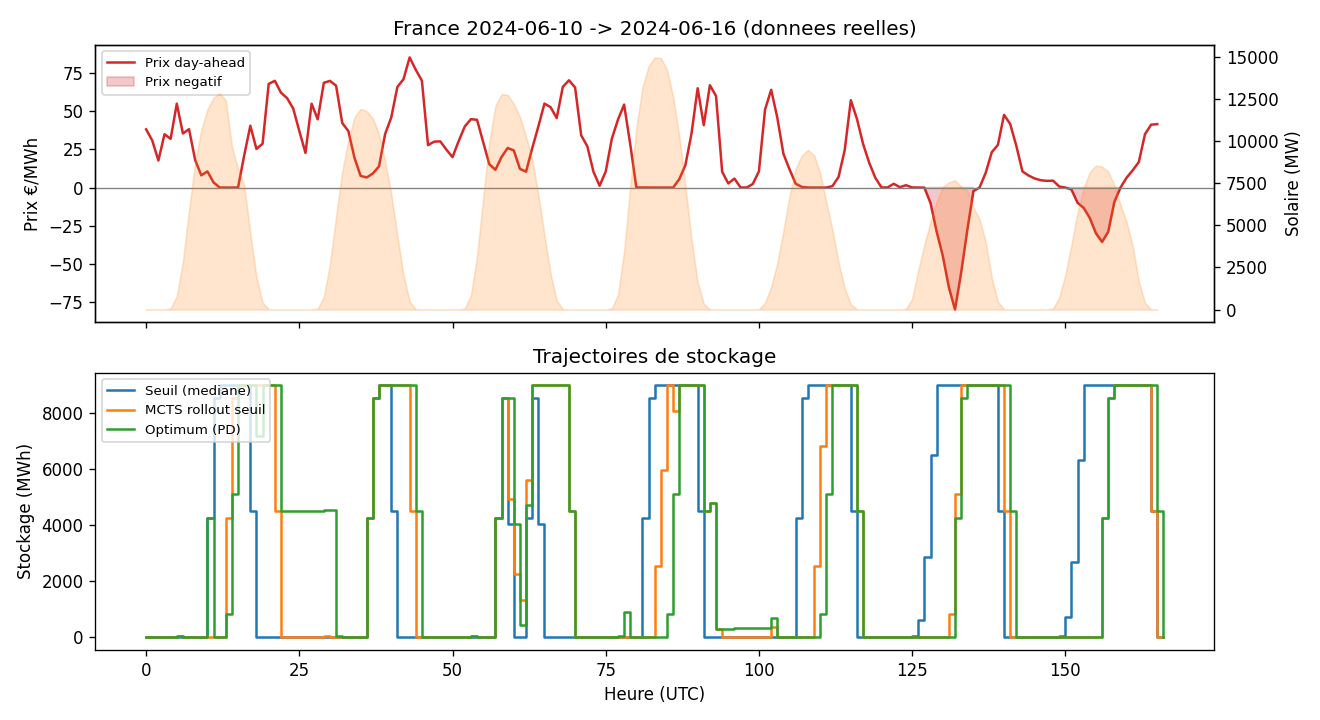
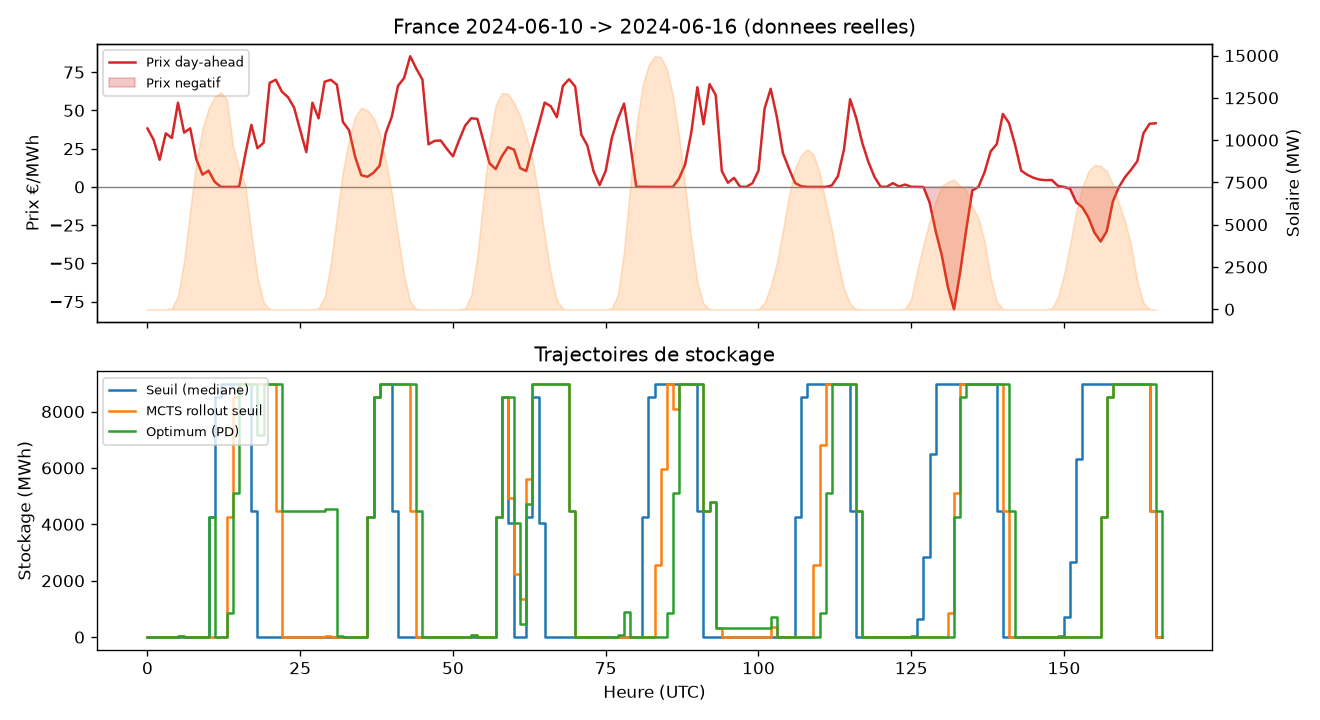
Update

diff --git a/MCTS_real/mcts.py b/MCTS_real/mcts.py
@@ -1,0 +1,132 @@
+"""Phase 5 — Monte Carlo Tree Search (UCT) pour le MDP a horizon fini.
+
+Le MCTS est utilise comme PLANIFICATEUR a horizon glissant (style MPC) : a
+chaque pas reel, on construit un arbre depuis l'etat courant (t, soc), on choisit
+l'action la plus visitee, on l'execute, on avance, et on recommence. C'est la
+maniere naturelle d'employer le MCTS comme politique et celle qui s'etendra
+directement au cas STOCHASTIQUE (il suffira d'echantillonner prix/production
+dans les rollouts au lieu de les rejouer a l'identique).
+
+Les quatre phases d'une simulation :
+  1. Selection   : on descend l'arbre via UCT tant que le noeud est entierement
+                   developpe.
+  2. Expansion   : on ajoute un enfant pour une action non encore essayee.
+  3. Simulation  : rollout (politique aleatoire par defaut) jusqu'a l'horizon.
+  4. Retropropagation : on remonte le retour-a-venir (return-to-go).
+
+Chaque noeud estime la valeur RESTANTE depuis lui-meme (somme des recompenses
+futures). La valeur d'une action a depuis un noeud = recompense d'arete r(noeud,a)
++ valeur estimee de l'enfant. UCT est normalise localement (min/max des valeurs
+d'action du noeud) pour rester robuste a l'echelle des recompenses.
+"""
+
+import math
+import numpy as np
+
+
+class _Node:
+    __slots__ = ("t", "soc", "children", "edge_r", "untried", "N", "W")
+
+    def __init__(self, t, soc, n_actions):
+        self.t = t
+        self.soc = soc
+        self.children = {}          # action_index -> _Node
+        self.edge_r = {}            # action_index -> recompense immediate
+        self.untried = list(range(n_actions))
+        self.N = 0                  # nombre de visites
+        self.W = 0.0                # somme des retours-a-venir observes
+
+
+class MCTSPlanner:
+    """Planificateur MCTS/UCT a horizon glissant."""
+
+    def __init__(self, env, n_simulations=600, c=1.0, rollout_policy=None, seed=0):
+        self.env = env
+        self.H = env.H
+        self.n_actions = env.n_actions
+        self.n_simulations = n_simulations
+        self.c = c                                  # constante d'exploration
+        self.rng = np.random.default_rng(seed)
+        self.rollout_policy = rollout_policy        # None => rollout aleatoire
+
+    # ---- choix de l'action pour l'etat courant ---- #
+    def plan_action(self, t, soc):
+        root = _Node(t, soc, self.n_actions)
+        for _ in range(self.n_simulations):
+            self._simulate(root)
+        # Action la plus visitee (choix robuste, standard en MCTS).
+        return max(root.children, key=lambda a: root.children[a].N)
+
+    # ---- une simulation complete (recursive) ---- #
+    def _simulate(self, node):
+        # Renvoie le retour-a-venir depuis `node`.
+        if node.t >= self.H:
+            return 0.0
+
+        if node.untried:  # ----- Expansion -----
+            a = node.untried.pop(self.rng.integers(len(node.untried)))
+            soc_next, r = self.env.apply(node.soc, node.t, a)
+            child = _Node(node.t + 1, soc_next, self.n_actions)
+            node.children[a] = child
+            node.edge_r[a] = r
+            g_child = self._rollout(child.t, child.soc)   # ----- Simulation -----
+            child.N += 1
+            child.W += g_child
+            g = r + g_child
+        else:             # ----- Selection (UCT) puis recursion -----
+            a = self._uct_select(node)
+            child = node.children[a]
+            g_child = self._simulate(child)
+            g = node.edge_r[a] + g_child
+
+        # ----- Retropropagation -----
+        node.N += 1
+        node.W += g
+        return g
+
+    def _uct_select(self, node):
+        log_n = math.log(node.N)
+        # Valeur d'action = recompense d'arete + valeur moyenne de l'enfant.
+        q = {a: node.edge_r[a] + ch.W / ch.N for a, ch in node.children.items()}
+        q_min = min(q.values())
+        q_max = max(q.values())
+        span = (q_max - q_min) if q_max > q_min else 1.0
+
+        best_score = -1e18
+        best_a = None
+        for a, ch in node.children.items():
+            exploit = (q[a] - q_min) / span                 # normalise dans [0, 1]
+            explore = self.c * math.sqrt(log_n / ch.N)
+            score = exploit + explore
+            if score > best_score:
+                best_score = score
+                best_a = a
+        return best_a
+
+    def _rollout(self, t, soc):
+        g = 0.0
+        while t < self.H:
+            if self.rollout_policy is None:
+                a = int(self.rng.integers(self.n_actions))
+            else:
+                a = self.rollout_policy(t, soc)
+            soc, r = self.env.apply(soc, t, a)
+            g += r
+            t += 1
+        return g
+
+    # ---- jeu de la politique MCTS en horizon glissant ---- #
+    def run(self):
+        """Joue le MCTS pas a pas sur l'environnement. Renvoie profit total,
+        trajectoire de SoC et actions choisies."""
+        soc = self.env.soc0
+        total = 0.0
+        soc_traj = [soc]
+        actions = []
+        for t in range(self.H):
+            a = self.plan_action(t, soc)
+            soc, r = self.env.apply(soc, t, a)
+            total += r
+            soc_traj.append(soc)
+            actions.append(a)
+        return total, np.array(soc_traj), np.array(actions)